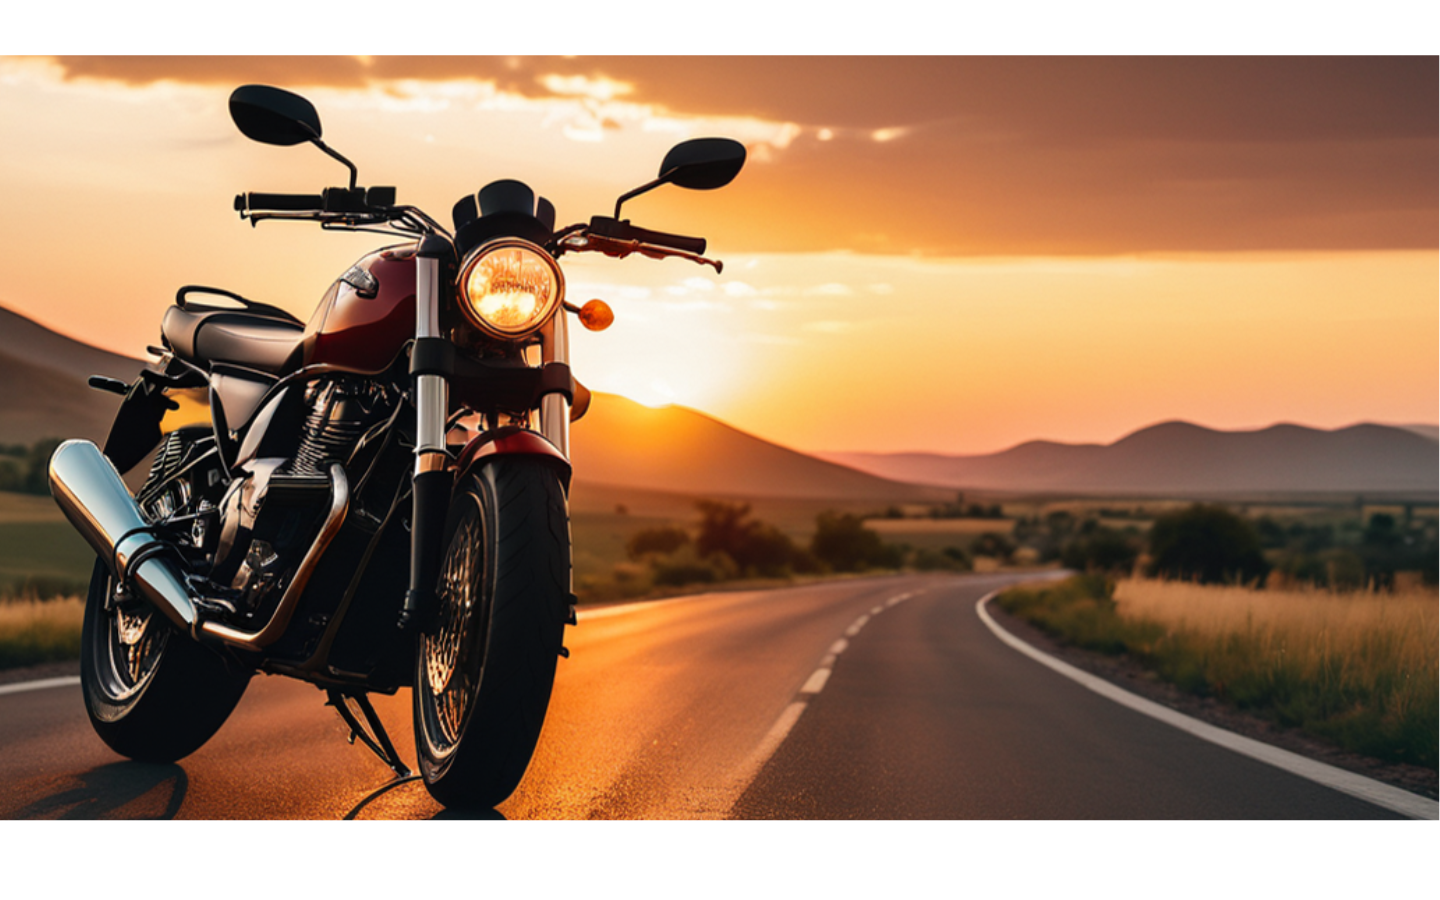
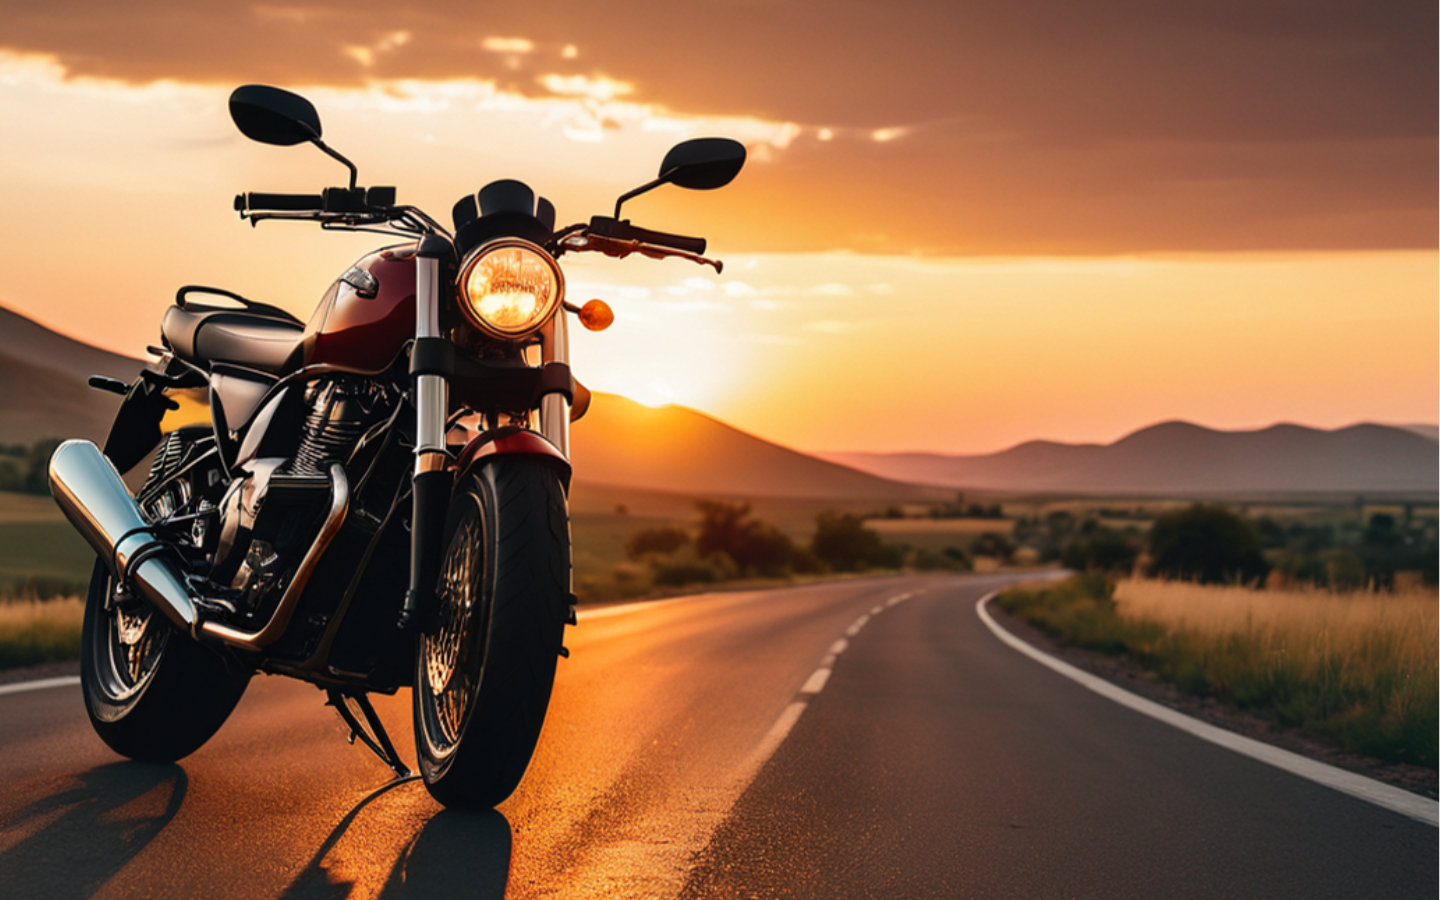
page d'accueil en cours

Changed region(s): [[0.0, 0.9022, 1.0, 1.0], [0.0, 0.0, 1.0, 0.0622]]

diff --git a/public/css/style.css b/public/css/style.css
@@ -1,6 +1,6 @@
 
 body {
-    padding-top: 80px; 
+    /* padding-top: 80px;  */
 }
 
 
@@ -20,8 +20,34 @@ body {
     object-fit: cover;
 }
 
-.home-image {
+#container-image {
     width: 100vw;
 }
 
+#home-image {
+    display: block;
+    height: 100vh;
+    margin: auto;
+}
 
+#login-image {
+    display: block;
+    height: 100vh;
+    margin-left: auto;
+}
+
+#conteneur_slider{
+ 
+    position:absolute;
+    top: 60vh;
+    left: 60vw;
+
+    }
+
+/* #conteneur_login{
+
+    position:absolute;
+    top: 30vh;
+    left: 10vw;
+
+    } */
